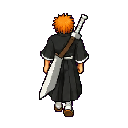
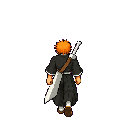
feat(sprites): upgrade ichigo walk cycle to 8 frames from walk8 assets

Changed region(s): [[0.2812, 0.0938, 0.7188, 0.9062]]

diff --git a/geradores/preview.js b/geradores/preview.js
@@ -12,7 +12,7 @@ import * as THREE from 'three';
 
 // Estado do Estúdio
 const studioState = {
-  activeCharacter: 'ichigo_shikai',
+  activeCharacter: 'ichigo_shikai_w8',
   charactersData: {},
   manifest: null,
   yaw: 0,            // Rotação horizontal em radianos
@@ -20,9 +20,9 @@ const studioState = {
   dist: 8.5,         // Distância da câmera
   autoOrbit: false,
   isAnimating: true,
-  fps: 8,
+  fps: 10,
   animTimer: 0,
-  currentFrame: 1,   // 0: passo esq, 1: neutro, 2: passo dir, 3: neutro
+  currentFrame: 1,
   worldScale: 2.2,
   compareMode: false,
   isDragging: false,
@@ -173,6 +173,10 @@ async function fetchStagingCharacters() {
   }
 
   studioState.manifest = studioState.charactersData[studioState.activeCharacter];
+  const selectChar = document.getElementById('select-character');
+  if (selectChar) {
+    selectChar.value = studioState.activeCharacter;
+  }
 }
 
 function loadTexture(url) {
@@ -221,7 +225,7 @@ function createCharacterMeshes() {
 
 function updateMeshTextures() {
   const charId = studioState.activeCharacter;
-  const manifest = studioState.charactersData[charId] || { format: 'walk4x4' };
+  const manifest = studioState.charactersData[charId] || { format: 'walk8', frameCount: 8 };
   studioState.manifest = manifest;
 
   // Determinar a direção com base no ângulo da câmera
@@ -229,8 +233,10 @@ function updateMeshTextures() {
 
   // Textura do personagem ativo
   let primaryUrl = '';
-  if (manifest.format === 'walk4x4') {
-    const fIdx = studioState.currentFrame;
+  const isAnimated = manifest.format === 'walk8' || manifest.format === 'walk4x4';
+  if (isAnimated) {
+    const totalFrames = manifest.frameCount || (manifest.format === 'walk8' ? 8 : 4);
+    const fIdx = studioState.currentFrame % totalFrames;
     primaryUrl = `/geradores/staging/${charId}/${dir}_${fIdx}.png`;
   } else {
     primaryUrl = `/geradores/staging/${charId}/${dir}.png`;
@@ -244,12 +250,14 @@ function updateMeshTextures() {
 
   // Se modo comparativo estiver ativo
   if (studioState.compareMode) {
-    const compId = (charId === 'ichigo_shikai') ? 'ichigo_chibi' : 'ichigo_shikai';
-    const compManifest = studioState.charactersData[compId] || { format: 'single_front' };
+    const compId = (charId === 'ichigo_shikai_w8' || charId === 'ichigo_shikai') ? 'ichigo_shikai_4f' : 'ichigo_shikai_w8';
+    const compManifest = studioState.charactersData[compId] || { format: 'walk4x4', frameCount: 4 };
 
     let compUrl = '';
-    if (compManifest.format === 'walk4x4') {
-      const fIdx = studioState.currentFrame;
+    const compAnimated = compManifest.format === 'walk8' || compManifest.format === 'walk4x4';
+    if (compAnimated) {
+      const totalFrames = compManifest.frameCount || (compManifest.format === 'walk8' ? 8 : 4);
+      const fIdx = studioState.currentFrame % totalFrames;
       compUrl = `/geradores/staging/${compId}/${dir}_${fIdx}.png`;
     } else {
       compUrl = `/geradores/staging/${compId}/${dir}.png`;
@@ -316,14 +324,17 @@ function studioLoop() {
     updateCameraPos();
   }
 
-  // 2. Animação de caminhada (Walk Cycle)
-  if (studioState.isAnimating && studioState.manifest?.format === 'walk4x4') {
+  // 2. Animação de caminhada (Walk Cycle 8 frames ou 4 frames)
+  const isAnimated = studioState.manifest?.format === 'walk8' || studioState.manifest?.format === 'walk4x4';
+  const totalFrames = studioState.manifest?.frameCount || (studioState.manifest?.format === 'walk8' ? 8 : 4);
+
+  if (studioState.isAnimating && isAnimated) {
     studioState.animTimer += dt;
     const interval = 1.0 / studioState.fps;
     if (studioState.animTimer >= interval) {
       studioState.animTimer = 0;
-      studioState.currentFrame = (studioState.currentFrame + 1) % 4;
-      document.getElementById('info-frame').innerText = `${studioState.currentFrame + 1} / 4`;
+      studioState.currentFrame = (studioState.currentFrame + 1) % totalFrames;
+      document.getElementById('info-frame').innerText = `${studioState.currentFrame + 1} / ${totalFrames}`;
     }
   }
 
@@ -433,8 +444,9 @@ function setupUIEventListeners(canvas) {
   btnStep.addEventListener('click', () => {
     studioState.isAnimating = false;
     btnAnim.innerText = '▶ Retomar Passo';
-    studioState.currentFrame = (studioState.currentFrame + 1) % 4;
-    document.getElementById('info-frame').innerText = `${studioState.currentFrame + 1} / 4`;
+    const totalFrames = studioState.manifest?.frameCount || (studioState.manifest?.format === 'walk8' ? 8 : 4);
+    studioState.currentFrame = (studioState.currentFrame + 1) % totalFrames;
+    document.getElementById('info-frame').innerText = `${studioState.currentFrame + 1} / ${totalFrames}`;
   });
 
   const sliderFps = document.getElementById('slider-fps');

diff --git a/src/main.js b/src/main.js
@@ -229,8 +229,8 @@ function buildSprites() {
       tex.colorSpace = THREE.SRGBColorSpace;
       spriteTextures[`player_${dirKey}`] = tex;
 
-      // Se for formato walk4x4, carregar os 4 quadros do ciclo de caminhada
-      const frameCount = dirInfo.frames || (approvedChar.format === 'walk4x4' ? 4 : 1);
+      // Se for formato walk4x4 ou walk8, carregar os quadros do ciclo de caminhada
+      const frameCount = dirInfo.frames || (approvedChar.format === 'walk8' ? 8 : (approvedChar.format === 'walk4x4' ? 4 : 1));
       if (frameCount > 1) {
         for (let f = 0; f < frameCount; f++) {
           const fPath = `/src/assets/characters/${approvedChar.id}/${dirKey}_${f}.png`;
@@ -250,6 +250,7 @@ function buildSprites() {
     if (approvedChar.fps) {
       player.walkFps = approvedChar.fps;
     }
+    player.frameCount = approvedChar.frameCount || (approvedChar.format === 'walk8' ? 8 : (approvedChar.format === 'walk4x4' ? 4 : 1));
 
     // Atualizar HUD com informações oficiais do personagem
     const titleEl = document.getElementById('player-title');
@@ -658,11 +659,11 @@ function updatePlayer(dt) {
 
     // Ciclo de caminhada (Walk Cycle): avança o quadro das pernas enquanto se move
     player.animTimer += dt;
-    const frameInterval = 1.0 / (player.walkFps || 8);
+    const frameInterval = 1.0 / (player.walkFps || 10);
     if (player.animTimer >= frameInterval) {
       player.animTimer = 0;
-      // 4 quadros: 0 (passo esq) -> 1 (neutro) -> 2 (passo dir) -> 3 (neutro)
-      player.animFrame = (player.animFrame + 1) % 4;
+      const totalFrames = player.frameCount || 4;
+      player.animFrame = (player.animFrame + 1) % totalFrames;
     }
   } else {
     // Parado (Idle): volta ao quadro neutro com pés juntos

diff --git a/src/characters.js b/src/characters.js
@@ -10,34 +10,34 @@ export const PLAYABLE_CHARACTERS = {
     "id": "ichigo_shikai",
     "name": "Ichigo Shikai",
     "category": "characters",
-    "format": "walk4x4",
-    "source": "arts/06_ichigo_shikai_walk_v2.png",
+    "format": "walk8",
+    "source": "arts/walk8/ichigo_shikai_sheet.png",
     "targetSize": 128,
     "worldScale": [
       2.2,
       2.2
     ],
-    "fps": 8,
-    "frameCount": 4,
+    "fps": 10,
+    "frameCount": 8,
     "directions": {
       "front": {
         "row": 0,
-        "frames": 4,
+        "frames": 8,
         "file": "front.png"
       },
       "side_l": {
         "row": 1,
-        "frames": 4,
+        "frames": 8,
         "file": "side_l.png"
       },
       "side": {
         "row": 2,
-        "frames": 4,
+        "frames": 8,
         "file": "side.png"
       },
       "back": {
         "row": 3,
-        "frames": 4,
+        "frames": 8,
         "file": "back.png"
       }
     }

diff --git a/preview.html b/preview.html
@@ -22,8 +22,9 @@
           <div class="control-group">
             <label for="select-character">Sprite Ativo:</label>
             <select id="select-character">
-              <option value="ichigo_shikai">06_ichigo_shikai_walk_v2 (4x4 Walk Cycle)</option>
-              <option value="ichigo_chibi">01_ichigo_shikai_front_ref (Chibi Ref)</option>
+              <option value="ichigo_shikai_w8">ichigo_shikai_w8 (8-frame Walk Cycle - Novo)</option>
+              <option value="ichigo_shikai_4f">ichigo_shikai_4f (4x4 Walk Cycle - Anterior)</option>
+              <option value="ichigo_chibi">ichigo_chibi (01_ichigo_shikai_front_ref)</option>
             </select>
           </div>
 

diff --git a/geradores/sprite_processor.py b/geradores/sprite_processor.py
@@ -115,6 +115,69 @@ def process_walk_4x4(img, target_size=128):
 
     return atlas, processed_frames
 
+def process_walk_8frame(img, target_size=128):
+    """
+    Processa uma folha oficial de 8 quadros por direção (como arts/walk8/ichigo_shikai_sheet.png):
+    Dimensões: 8 colunas x 4 linhas (2512 x 2508 px)
+    Row 0: Front / Down (8 quadros da passada completa: contato, absorção, passagem, alcance...)
+    Row 1: Side Left (8 quadros de perfil esquerdo)
+    Row 2: Side Right (8 quadros de perfil direito)
+    Row 3: Back / Up (8 quadros de costas)
+    """
+    w, h = img.size
+    cw = w // 8
+    ch = h // 4
+
+    rows = {
+        'front':  0,
+        'side_l': 1,
+        'side':   2,
+        'back':   3
+    }
+
+    frames_by_dir = {}
+    all_bboxes = []
+
+    # 1. Extrair todas as células e calcular bboxes
+    for dir_name, row_idx in rows.items():
+        frames_by_dir[dir_name] = []
+        for col_idx in range(8):
+            box = (col_idx * cw, row_idx * ch, (col_idx + 1) * cw, (row_idx + 1) * ch)
+            cell = img.crop(box)
+            bbox = cell.getbbox()
+            if bbox:
+                all_bboxes.append(bbox)
+            frames_by_dir[dir_name].append((cell, bbox))
+
+    if not all_bboxes:
+        raise ValueError("Nenhum sprite visível encontrado após remoção de fundo.")
+
+    max_height = max(b[3] - b[1] for b in all_bboxes)
+    max_width  = max(b[2] - b[0] for b in all_bboxes)
+
+    processed_frames = {}
+    atlas = Image.new("RGBA", (target_size * 8, target_size * 4), (0, 0, 0, 0))
+    scale_factor = (target_size * 0.84) / max(max_height, max_width)
+
+    for dir_name, row_idx in rows.items():
+        processed_frames[dir_name] = []
+        for col_idx, (cell, bbox) in enumerate(frames_by_dir[dir_name]):
+            frame = Image.new("RGBA", (target_size, target_size), (0, 0, 0, 0))
+            if bbox:
+                cropped = cell.crop(bbox)
+                new_w = max(1, int(cropped.width * scale_factor))
+                new_h = max(1, int(cropped.height * scale_factor))
+                resized = cropped.resize((new_w, new_h), Image.Resampling.NEAREST)
+
+                dest_x = (target_size - new_w) // 2
+                dest_y = int(target_size * 0.92) - new_h
+                frame.paste(resized, (dest_x, dest_y), resized)
+
+            processed_frames[dir_name].append(frame)
+            atlas.paste(frame, (col_idx * target_size, row_idx * target_size))
+
+    return atlas, processed_frames
+
 def process_single_front(img, target_size=128):
     """
     Processa um sprite único frontal (como arts/_chibi_descartado/01_ichigo_shikai_front_ref.png).
@@ -189,8 +252,8 @@ def export_character(name, category, atlas, processed_frames, out_dir, format_ty
         "source": source_file,
         "targetSize": target_size,
         "worldScale": [2.2, 2.2],
-        "fps": 8 if format_type == "walk4x4" else 0,
-        "frameCount": 4 if format_type == "walk4x4" else 1,
+        "fps": 10 if format_type == "walk8" else (8 if format_type == "walk4x4" else 0),
+        "frameCount": 8 if format_type == "walk8" else (4 if format_type == "walk4x4" else 1),
         "directions": {
             "front":  {"row": 0, "frames": len(processed_frames['front']),  "file": "front.png"},
             "side_l": {"row": 1, "frames": len(processed_frames['side_l']), "file": "side_l.png"},
@@ -213,7 +276,7 @@ def main():
     parser.add_argument("--input", "-i", required=True, help="Caminho da imagem de entrada")
     parser.add_argument("--name", "-n", required=True, help="Nome/ID do personagem (ex: ichigo_shikai)")
     parser.add_argument("--category", "-c", default="characters", choices=["characters", "monsters", "props", "fx"])
-    parser.add_argument("--type", "-t", default="auto", choices=["auto", "walk4x4", "single_front"])
+    parser.add_argument("--type", "-t", default="auto", choices=["auto", "walk8", "walk4x4", "single_front"])
     parser.add_argument("--target-size", "-s", type=int, default=128, help="Tamanho do quadro quadrado (padrão 128)")
     parser.add_argument("--tolerance", type=int, default=120, help="Tolerância da cor magenta")
     parser.add_argument("--approve", action="store_true", help="Se definido, exporta direto para src/assets/")
@@ -230,8 +293,10 @@ def main():
     # Auto-detectar tipo se necessário
     format_type = args.type
     if format_type == "auto":
-        # Se o nome tem "walk" ou dimensões são quadradas 4x4
-        if "walk" in args.input.lower():
+        # Se for do diretório walk8 ou tiver proporção 8 colunas (ex: 2512x2508 com walk8 no nome)
+        if "walk8" in args.input.lower() and "sheet" in args.input.lower():
+            format_type = "walk8"
+        elif "walk" in args.input.lower():
             format_type = "walk4x4"
         else:
             format_type = "single_front"
@@ -240,7 +305,9 @@ def main():
     clean_img = remove_chroma_key(raw_img, tolerance=args.tolerance)
 
     print(f"📐 Processando formato '{format_type}' com quadro {args.target_size}x{args.target_size}...")
-    if format_type == "walk4x4":
+    if format_type == "walk8":
+        atlas, frames = process_walk_8frame(clean_img, target_size=args.target_size)
+    elif format_type == "walk4x4":
         atlas, frames = process_walk_4x4(clean_img, target_size=args.target_size)
     else:
         atlas, frames = process_single_front(clean_img, target_size=args.target_size)
@@ -253,6 +320,41 @@ def main():
         out_dir = os.path.join(base_repo, "geradores", "staging", args.name)
 
     export_character(args.name, args.category, atlas, frames, out_dir, format_type, args.input, args.target_size)
+
+    # Se aprovado, atualizar src/characters.js
+    if args.approve:
+        chars_dir = os.path.join(base_repo, "src", "assets", "characters")
+        monsters_dir = os.path.join(base_repo, "src", "assets", "monsters")
+        chars = {}
+        monsters = {}
+        if os.path.exists(chars_dir):
+            for c_name in sorted(os.listdir(chars_dir)):
+                mf = os.path.join(chars_dir, c_name, "manifest.json")
+                if os.path.exists(mf):
+                    with open(mf, "r", encoding="utf-8") as f:
+                        chars[c_name] = json.load(f)
+        if os.path.exists(monsters_dir):
+            for m_name in sorted(os.listdir(monsters_dir)):
+                mf = os.path.join(monsters_dir, m_name, "manifest.json")
+                if os.path.exists(mf):
+                    with open(mf, "r", encoding="utf-8") as f:
+                        monsters[m_name] = json.load(f)
+
+        reg_path = os.path.join(base_repo, "src", "characters.js")
+        content = f"""// =======================================================================
+// BLEACH: SOUL SURVIVOR - REGISTRO OFICIAL DE ASSETS E PERSONAGENS
+// =======================================================================
+// Este arquivo é atualizado automaticamente pelo gerador de sprites
+// sempre que um novo personagem ou monstro é APROVADO via 360 Preview Studio.
+// =======================================================================
+
+export const PLAYABLE_CHARACTERS = {json.dumps(chars, indent=2, ensure_ascii=False)};
+
+export const MONSTERS_REGISTRY = {json.dumps(monsters, indent=2, ensure_ascii=False)};
+"""
+        with open(reg_path, "w", encoding="utf-8") as f:
+            f.write(content)
+        print(f"🔄 Sincronizado registro em: {reg_path}")
 
 if __name__ == "__main__":
     main()
